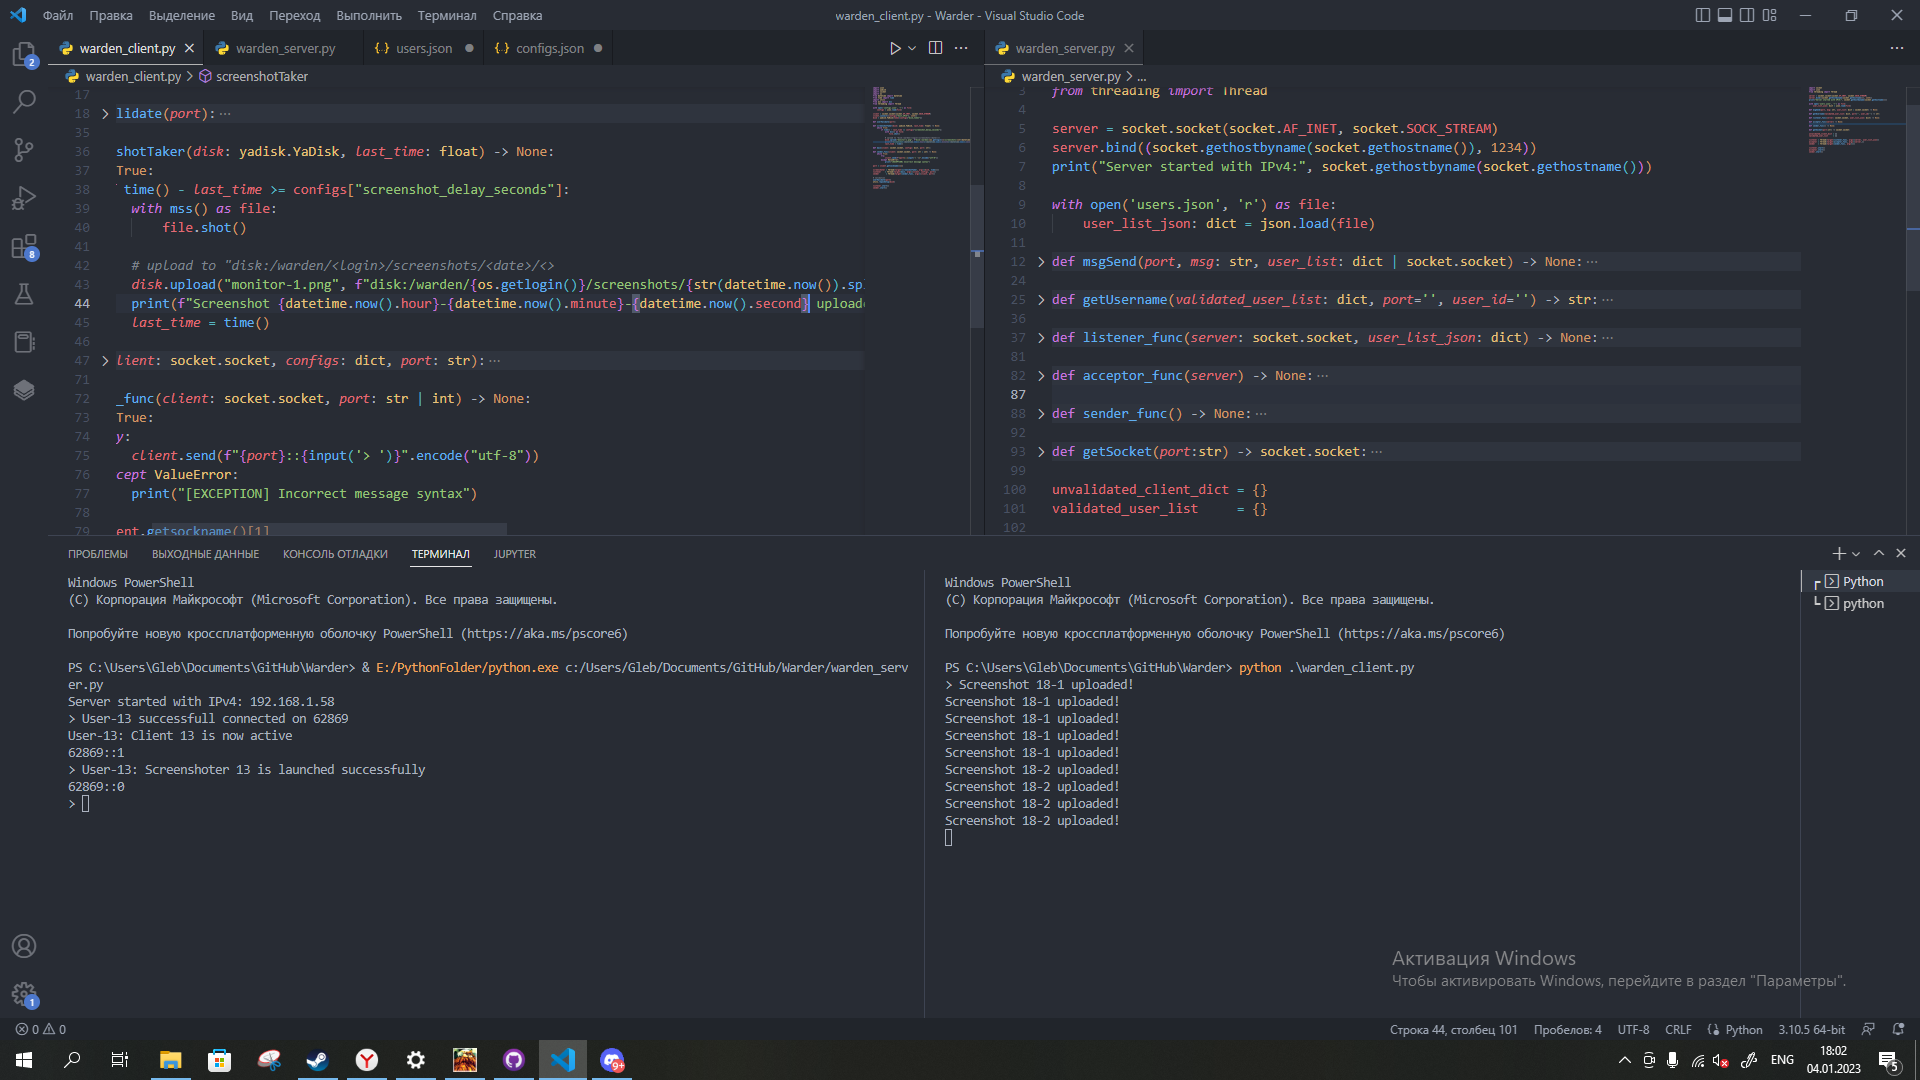
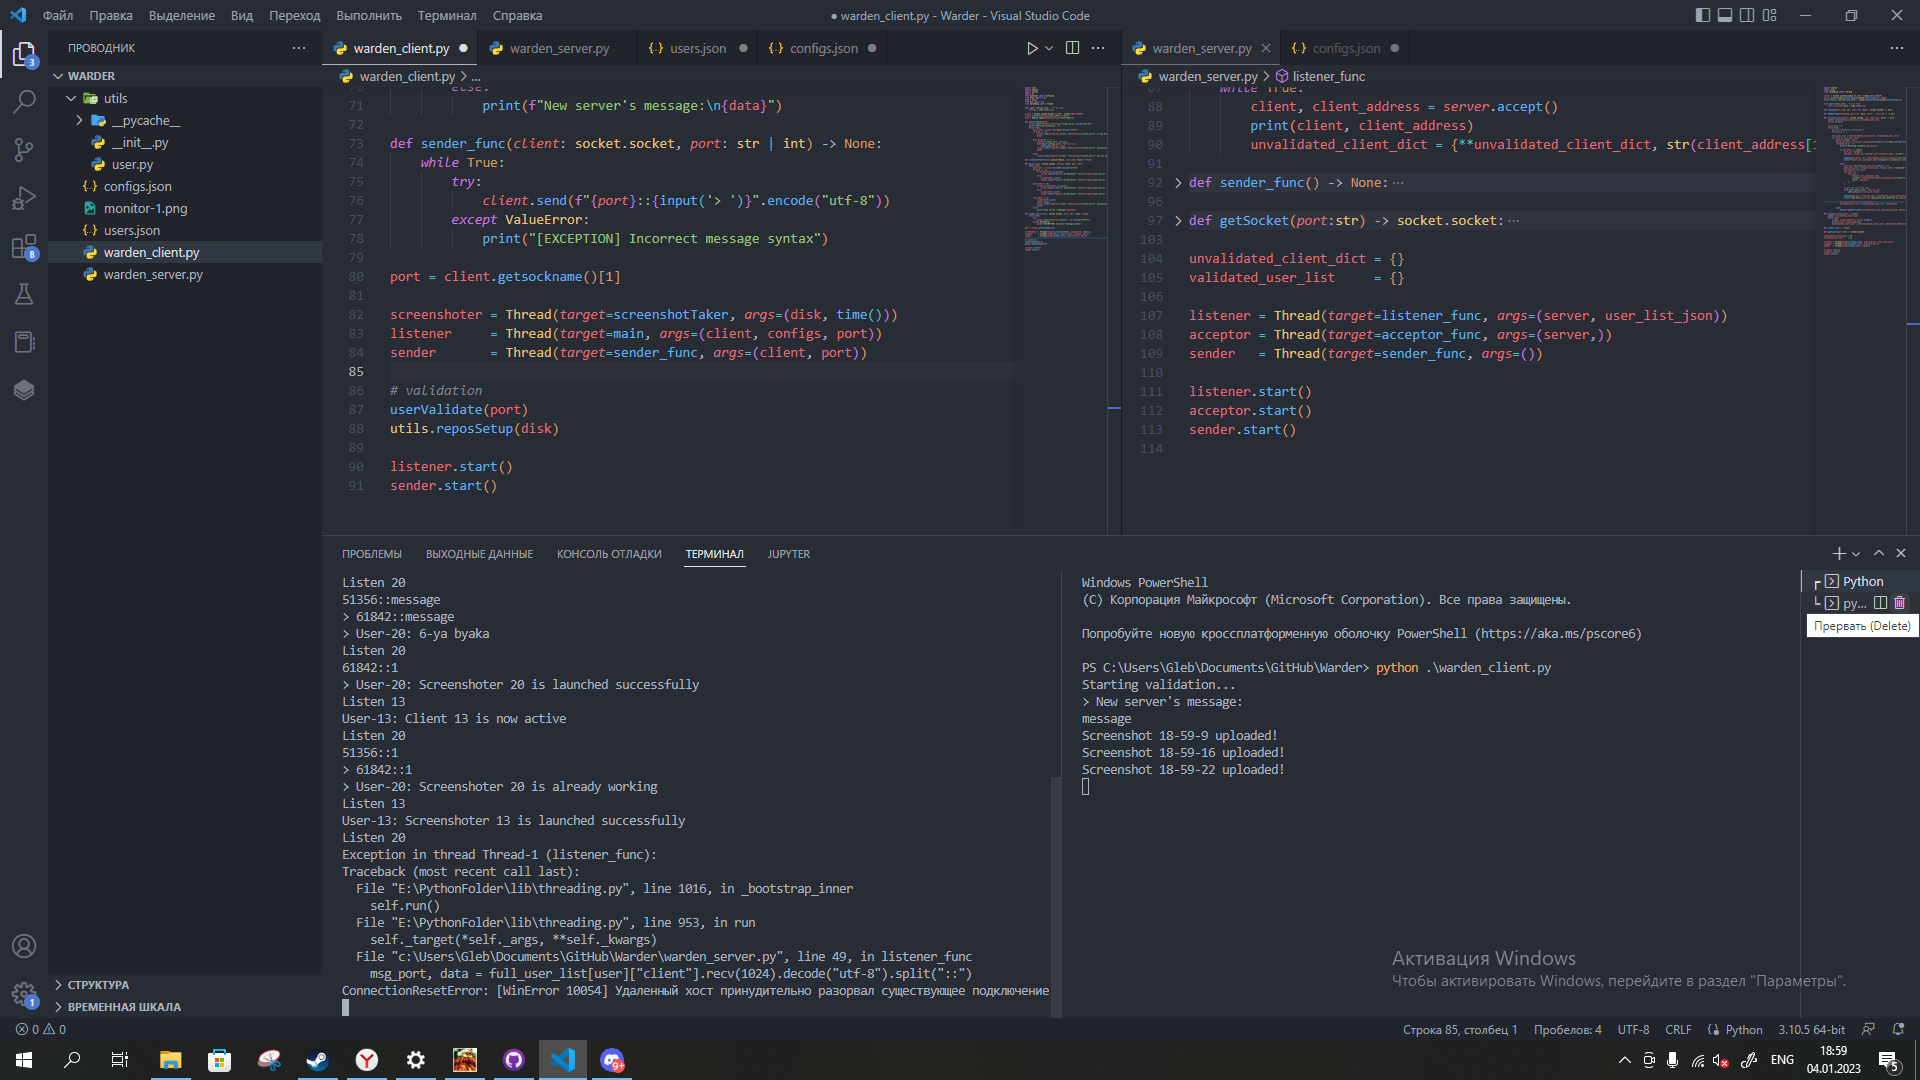
Warder 0.1.1

diff --git a/warden_server.py b/warden_server.py
@@ -45,8 +45,10 @@ def listener_func(server: socket.socket, user_list_json: dict) -> None:
 
         full_user_list = {**unvalidated_client_dict, **validated_user_list}
         for user in full_user_list:
+            print("Listen", user)
             msg_port, data = full_user_list[user]["client"].recv(1024).decode("utf-8").split("::")
             if data[:1] == '/':
+                print(f"Starting validate {msg_port}")
 
                 if not data == "/None":
                     user_id = data[1:]
@@ -74,6 +76,7 @@ def listener_func(server: socket.socket, user_list_json: dict) -> None:
                     msgSend(msg_port, f"r{user_id}", unvalidated_client_dict[msg_port]["client"])
                     print(f"New User-{user_id} registered and connected on {msg_port}")
                 
+                del unvalidated_client_dict[user]
                 validated_user_list = {**validated_user_list, **new_user}
 
             else:
@@ -83,6 +86,7 @@ def acceptor_func(server) -> None:
     global unvalidated_client_dict
     while True:
         client, client_address = server.accept()
+        print(client, client_address)
         unvalidated_client_dict = {**unvalidated_client_dict, str(client_address[1]): {"client": client}}
 
 def sender_func() -> None:

diff --git a/warden_client.py b/warden_client.py
@@ -17,6 +17,7 @@ disk = yadisk.YaDisk(token=configs["disk_token"])
 
 def userValidate(port):
     client.send(f"{port}::/{configs['client_id']}".encode("utf-8"))
+    print("Starting validation...")
     while True:
         data: str = client.recv(1024).decode("utf-8")
         if data == 'a':
@@ -79,7 +80,7 @@ def sender_func(client: socket.socket, port: str | int) -> None:
 port = client.getsockname()[1]
 
 screenshoter = Thread(target=screenshotTaker, args=(disk, time()))
-listener    = Thread(target=main, args=(client, configs, port))
+listener     = Thread(target=main, args=(client, configs, port))
 sender       = Thread(target=sender_func, args=(client, port))
 
 # validation 
